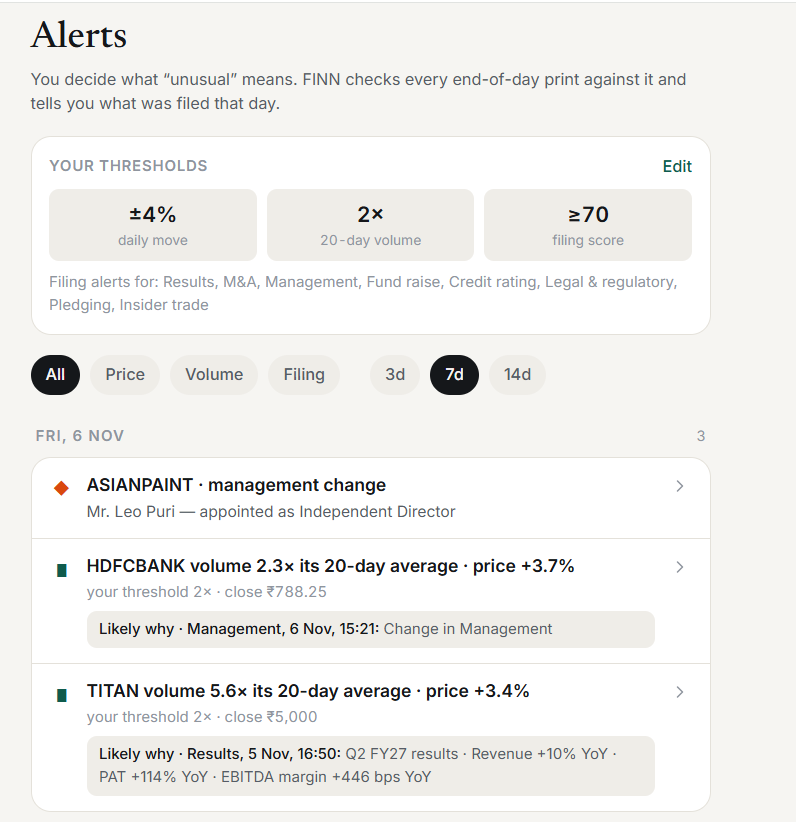
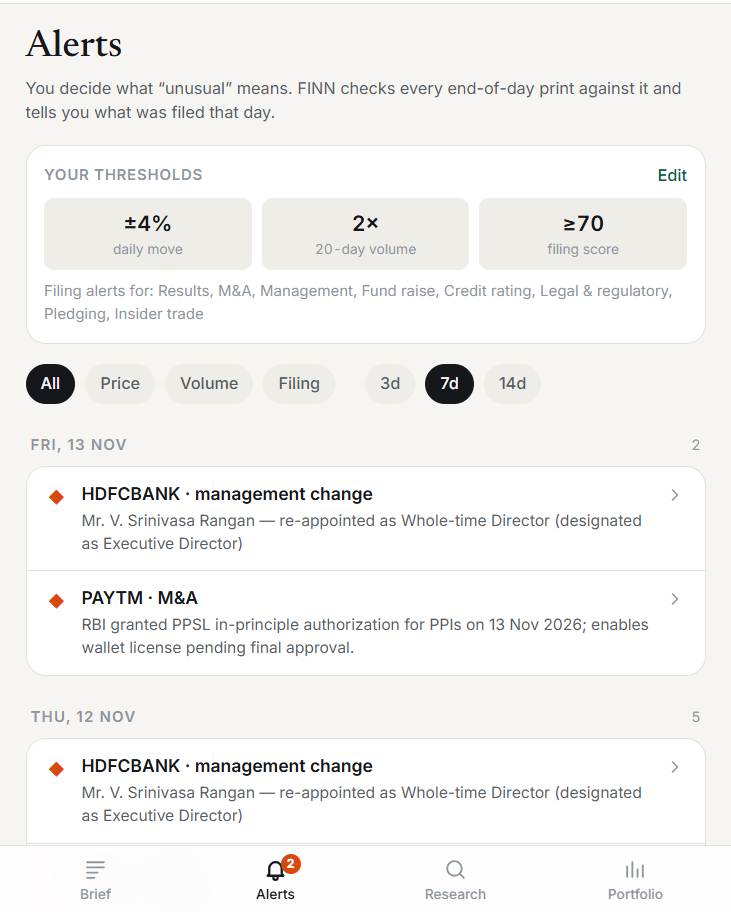
docs: update final mobile screenshots
- Replace docs/screens/alerts_mobile.png with a current Alerts screenshot
  (thresholds, type/window filters, filing alerts from 12-13 Nov).
- Add docs/screens/research_tata_suggestion.png: Research search
  suggesting TATATECH and TTML for "tata te".
- README gallery: show the suggestion screenshot above the existing
  name-resolution one and update both captions to match.

diff --git a/README.md b/README.md
@@ -328,11 +328,11 @@ An evaluator's path through the app, from the daily Brief to the evidence behind
 <table>
 <tr>
 <td width="50%" valign="top"><img src="docs/screens/alerts_mobile.png" width="400" alt="Alerts"></td>
-<td valign="top"><img src="docs/screens/research_search_tatatech.png" width="400" alt="Research search"></td>
+<td valign="top"><img src="docs/screens/research_tata_suggestion.png" width="400" alt="Research search suggestions"><br><br><img src="docs/screens/research_search_tatatech.png" width="400" alt="Research search"></td>
 </tr>
 <tr>
-<td valign="top"><sub><b>Alerts.</b> Your own thresholds (±4% daily move, 2× 20-day volume, filing score ≥ 70). Each price or volume alert names the filing that most likely explains it (“Likely why”).</sub></td>
-<td valign="top"><sub><b>Research search.</b> Typing a company name — “tata technologies” — resolves it to its NSE ticker, TATATECH, before any research starts.</sub></td>
+<td valign="top"><sub><b>Alerts.</b> Your own thresholds (±4% daily move, 2× 20-day volume, filing score ≥ 70), filtered by alert type and window — here a week of filing alerts from 12–13 November. Price and volume alerts name the filing that most likely explains them (“Likely why”).</sub></td>
+<td valign="top"><sub><b>Research search.</b> Typing “tata te” suggests matching NSE companies — TATATECH and TTML — and a full name such as “tata technologies” resolves to its ticker, TATATECH, before any research starts.</sub></td>
 </tr>
 </table>
 
